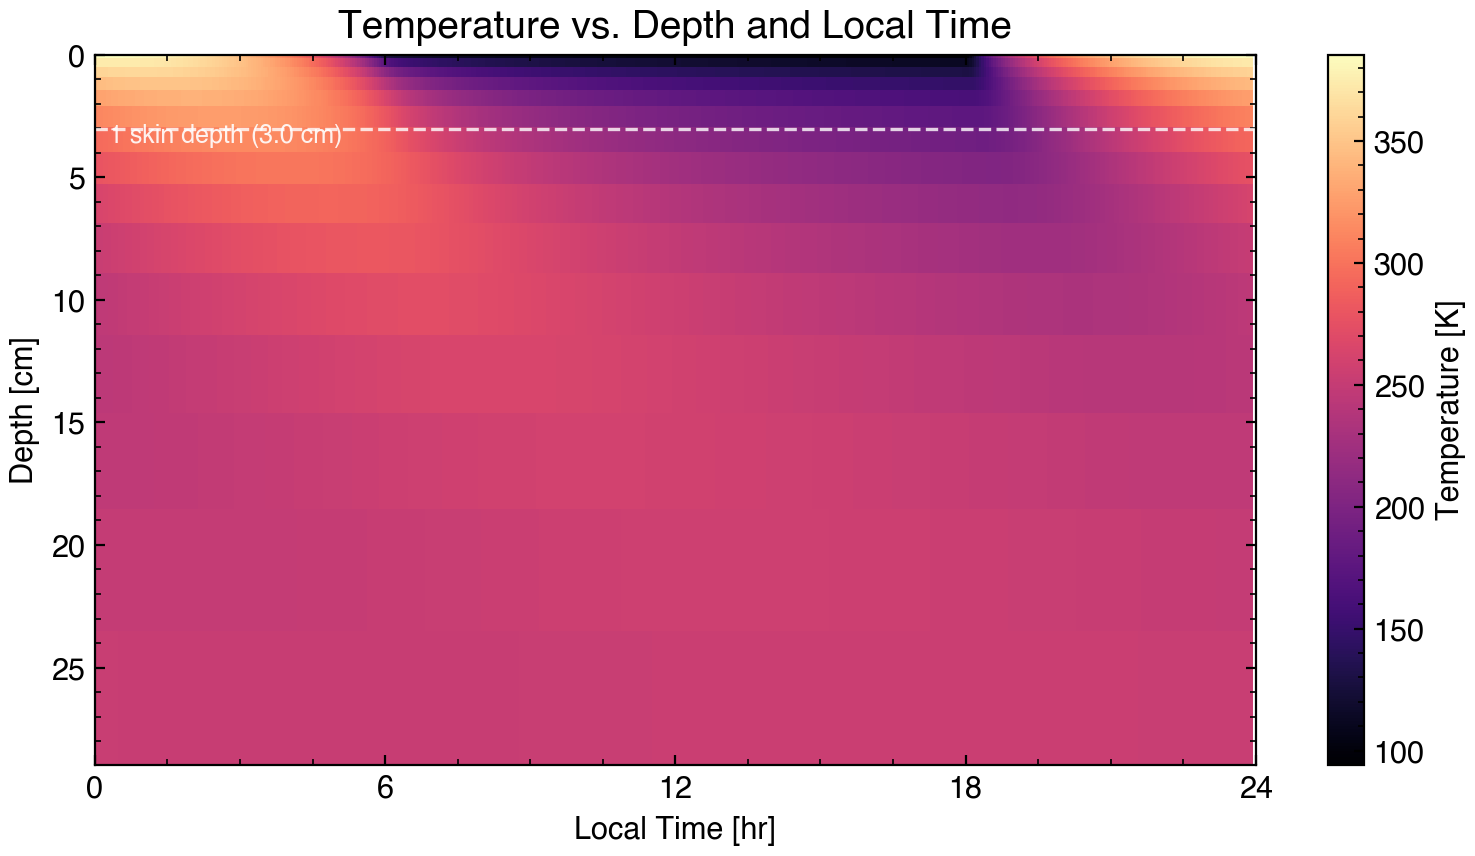
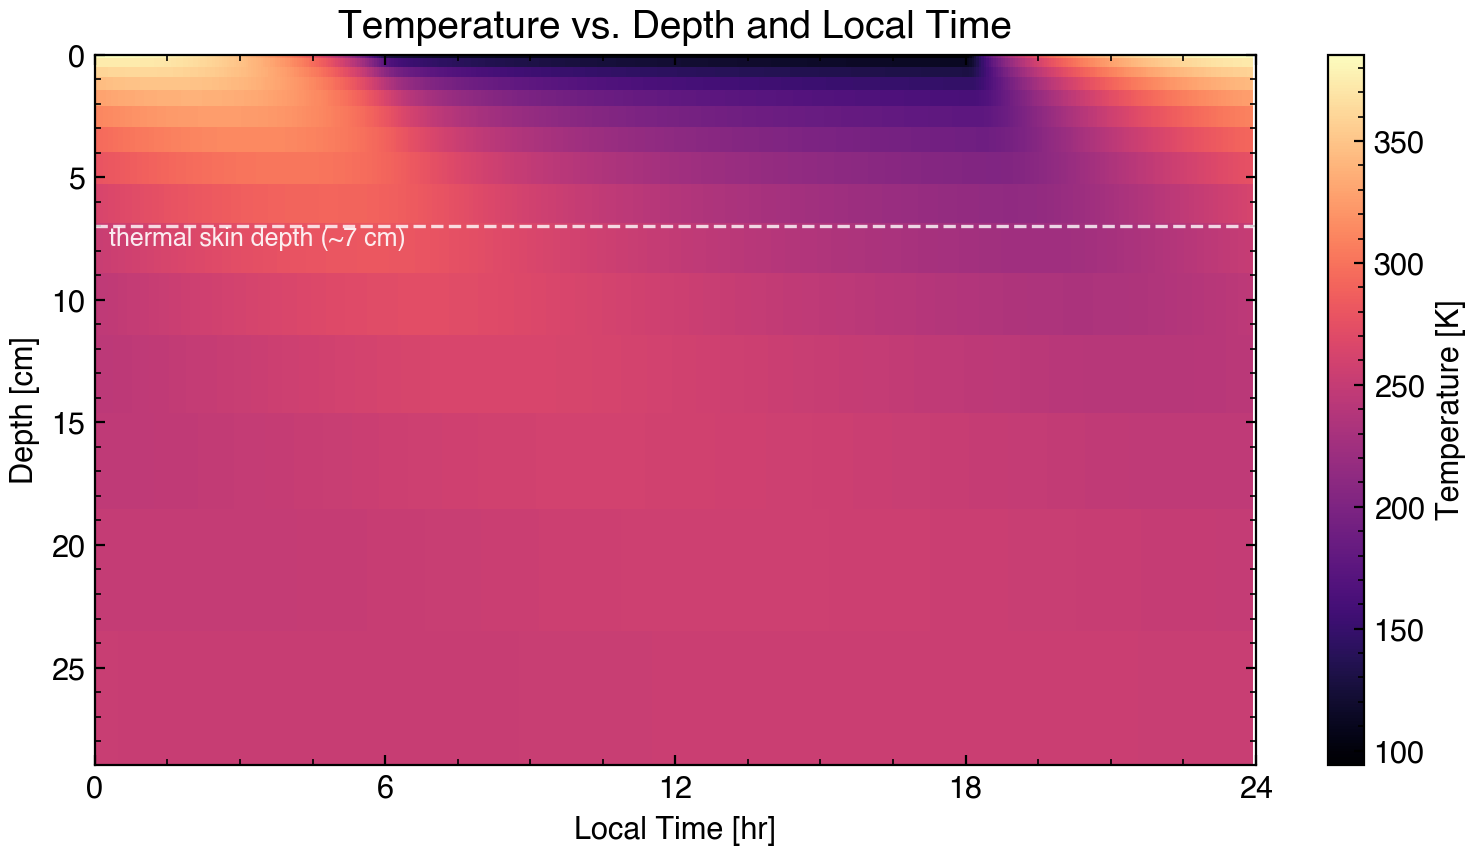
Add comprehensive README with example plots and GUI screenshot - Replace stub README with full documentation: install instructions,   solver comparison, Python API examples, theory overview, and links   to Sphinx docs - Add plot generation script (docs/generate_readme_plots.py) - Add example figures

Changed region(s): [[0.3742, 0.243, 0.842, 0.2734], [0.0624, 0.243, 0.2807, 0.3037], [0.0624, 0.1215, 0.2495, 0.1822]]

diff --git a/docs/generate_readme_plots.py b/docs/generate_readme_plots.py
@@ -135,13 +135,11 @@ def plot_depth_heatmap(model, outdir):
     pcm = ax.pcolormesh(lt_edges, z_edges, T_plot.T, cmap="magma", shading="flat")
     cb = fig.colorbar(pcm, ax=ax, label="Temperature [K]")
 
-    # Mark 1 thermal skin depth
-    from heat1d.grid import skinDepth
-    planet = _make_planet()
-    kappa = planet.ks / (planet.rhos * 600)  # approximate diffusivity
-    z_s_cm = skinDepth(planet.day, kappa) * 100
+    # Mark effective thermal skin depth from Hayne et al. (2017):
+    # ~7 cm accounting for temperature-dependent K and cp
+    z_s_cm = 7.0
     ax.axhline(z_s_cm, color="white", ls="--", lw=1.2, alpha=0.8)
-    ax.text(0.3, z_s_cm + 0.6, f"1 skin depth ({z_s_cm:.1f} cm)",
+    ax.text(0.3, z_s_cm + 0.8, f"thermal skin depth (~{z_s_cm:.0f} cm)",
             color="white", fontsize=9, alpha=0.9)
 
     ax.set_xlabel("Local Time [hr]")

diff --git a/python/docs/grid.rst b/python/docs/grid.rst
@@ -16,7 +16,10 @@ of a periodic temperature wave:
 where :math:`P` is the forcing period (e.g., the diurnal period) and
 :math:`\kappa = K / (\rho c_p)` is the thermal diffusivity.
 
-For the Moon with surface properties, :math:`z_s \approx 4\text{--}5` cm.
+For the Moon, :math:`z_s \approx 4\text{--}7` cm depending on the H-parameter and
+temperature-dependent thermal properties (Hayne et al., 2017).  The grid is
+constructed using surface-minimum properties (:math:`\sim 3` cm), which ensures
+adequate resolution near the surface where gradients are steepest.
 
 Grid Construction
 -----------------

diff --git a/README.md b/README.md
@@ -84,7 +84,7 @@ print(f"Grid: {model.N_z} layers to {model.profile.z[-1]:.2f} m depth")
 
 ### Temperature vs. Depth and Local Time
 
-The thermal wave penetrates only a few centimeters into lunar regolith. Below the thermal skin depth (~3 cm), diurnal variations are strongly damped.
+The thermal wave penetrates only a few centimeters into lunar regolith. Below the thermal skin depth (~7 cm, accounting for temperature-dependent conductivity and heat capacity), diurnal variations are strongly damped.
 
 ![Depth Heatmap](docs/images/depth_heatmap.png)
 
